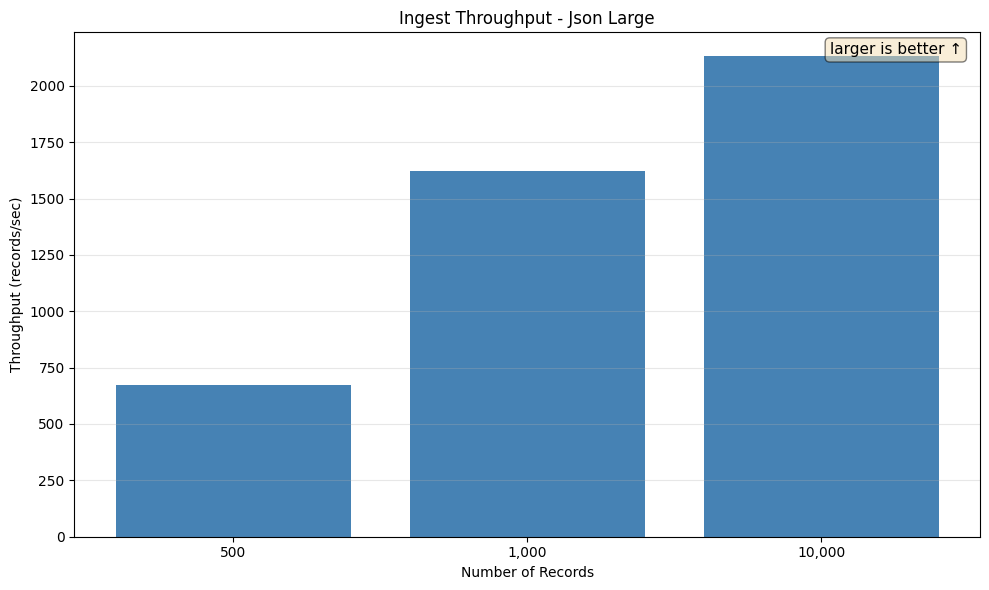
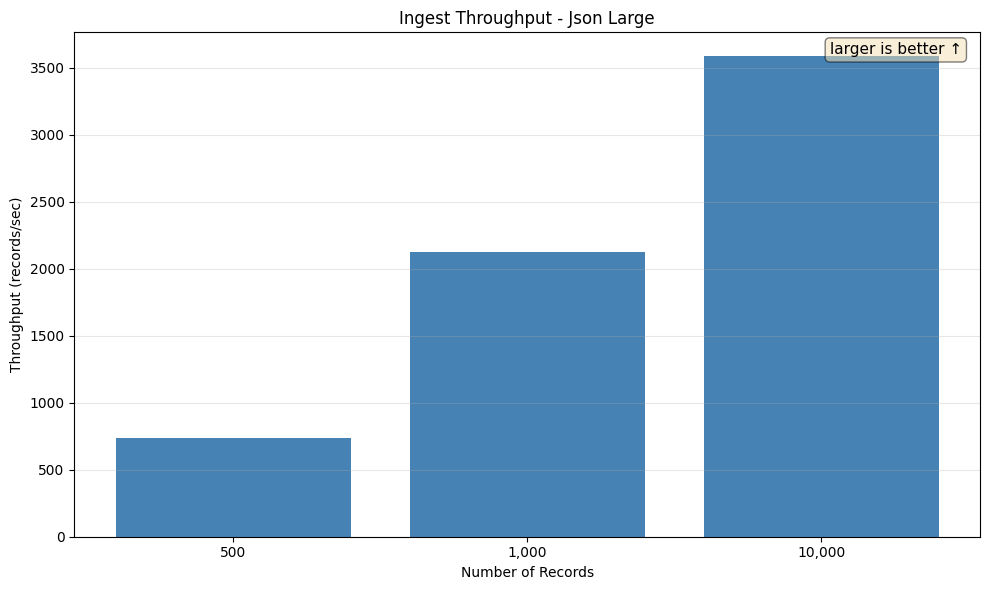
docs(report): regenerate BENCHMARK_REPORT.md with fresh ingest data
Generated via 'mise run report:build' after the refreshed ingest run — picks up the new throughput numbers and regenerates the ingest charts.

diff --git a/report/BENCHMARK_REPORT.md b/report/BENCHMARK_REPORT.md
@@ -40,9 +40,9 @@ Tests insertion of encrypted integer values.
 
 | Records | Throughput (records/sec) | Total Time | Avg Memory |
 |---------|--------------------------|------------|------------|
-| 500 | 533.07 | 0.94s | 29.12 MB |
-| 1,000 | 1.40K | 0.71s | 29.12 MB |
-| 10,000 | 2.02K | 4.94s | 29.12 MB |
+| 500 | 698.69 | 0.72s | 17.22 MB |
+| 1,000 | 1.59K | 0.63s | 20.39 MB |
+| 10,000 | 2.13K | 4.70s | 22.25 MB |
 
 ![Ingest Throughput - int](ingest_int_throughput_chart.png)
 
@@ -54,9 +54,9 @@ Tests insertion of large encrypted JSON objects with complex nested structures (
 
 | Records | Throughput (records/sec) | Total Time | Avg Memory |
 |---------|--------------------------|------------|------------|
-| 500 | 672.53 | 0.74s | 55.95 MB |
-| 1,000 | 1.62K | 0.62s | 94.62 MB |
-| 10,000 | 2.13K | 4.69s | 164.94 MB |
+| 500 | 734.25 | 0.68s | 55.98 MB |
+| 1,000 | 2.13K | 0.47s | 95.58 MB |
+| 10,000 | 3.59K | 2.79s | 162.06 MB |
 
 ![Ingest Throughput - json_large](ingest_json_large_throughput_chart.png)
 
@@ -68,9 +68,9 @@ Tests insertion of small encrypted JSON objects (first_name, last_name, age, ema
 
 | Records | Throughput (records/sec) | Total Time | Avg Memory |
 |---------|--------------------------|------------|------------|
-| 500 | 783.26 | 0.64s | 28.43 MB |
-| 1,000 | 3.96K | 0.25s | 29.12 MB |
-| 10,000 | 11.32K | 0.88s | 29.12 MB |
+| 500 | 665.29 | 0.75s | 16.22 MB |
+| 1,000 | 3.68K | 0.27s | 18.05 MB |
+| 10,000 | 11.42K | 0.88s | 20.22 MB |
 
 ![Ingest Throughput - json_small](ingest_json_small_throughput_chart.png)
 
@@ -94,9 +94,9 @@ Tests insertion of encrypted string values.
 
 | Records | Throughput (records/sec) | Total Time | Avg Memory |
 |---------|--------------------------|------------|------------|
-| 500 | 540.18 | 0.93s | 28.77 MB |
-| 1,000 | 3.35K | 0.30s | 29.00 MB |
-| 10,000 | 8.77K | 1.14s | 29.00 MB |
+| 500 | 966.23 | 0.52s | 16.48 MB |
+| 1,000 | 3.99K | 0.25s | 18.66 MB |
+| 10,000 | 9.65K | 1.04s | 21.23 MB |
 
 ![Ingest Throughput - string](ingest_string_throughput_chart.png)
 
